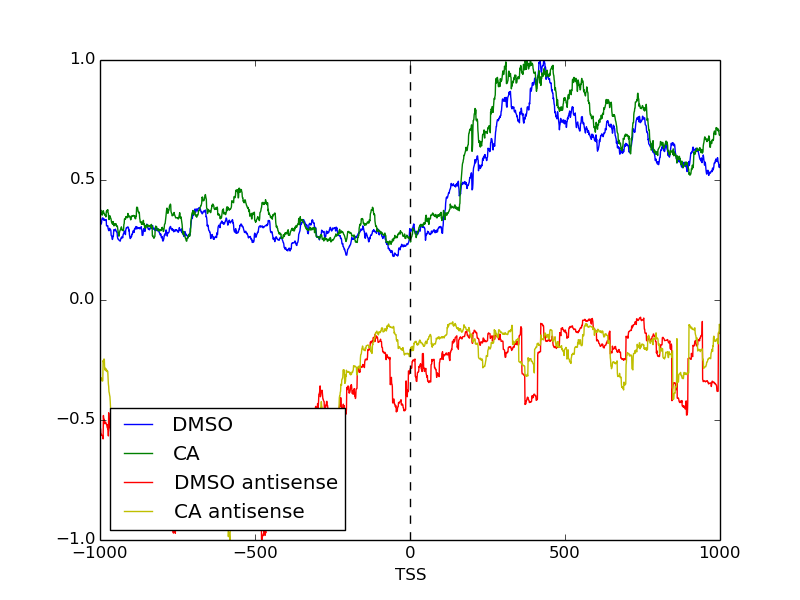
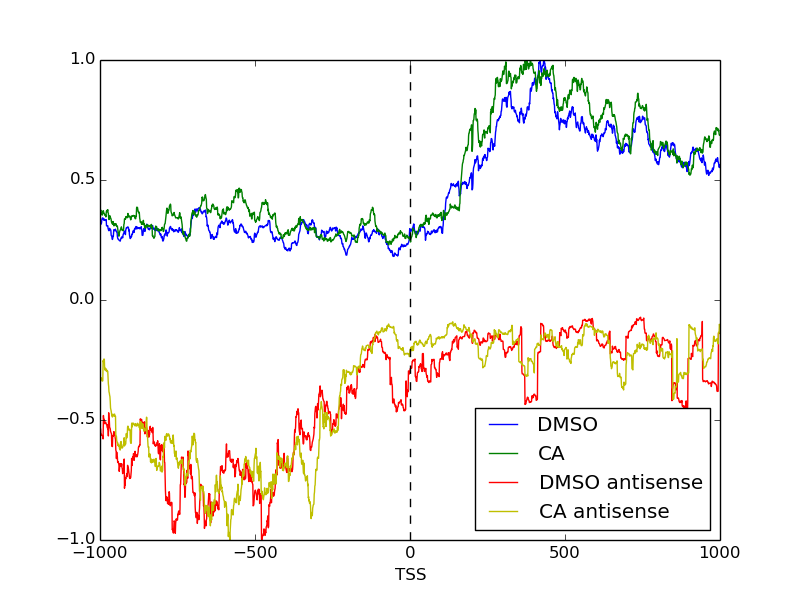
updates

Changed region(s): [[0.125, 0.66, 0.4375, 0.9], [0.5938, 0.66, 0.9062, 0.9], [0.5938, 0.75, 0.6562, 0.81]]

diff --git a/src/metagene_TSS.py b/src/metagene_TSS.py
@@ -145,8 +145,8 @@ def run(file1,file2,file3):
     
     F1 = plt.figure()
     x2 = np.arange(-window,window,1)
-    plt.plot(x2,CAarray/DMSOarray)
-    plt.plot(x2,DMSOantiarray/CAantiarray)
+    plt.plot(x2,CAarray-DMSOarray)
+    plt.plot(x2,DMSOantiarray-CAantiarray)
     plt.legend(['CA/DMSO','DMSO/CA antisense'], loc='upper left',fontsize=8)
     plt.xlabel('TSS')
     plt.axvline(x=0.,color='k',ls='dashed')
